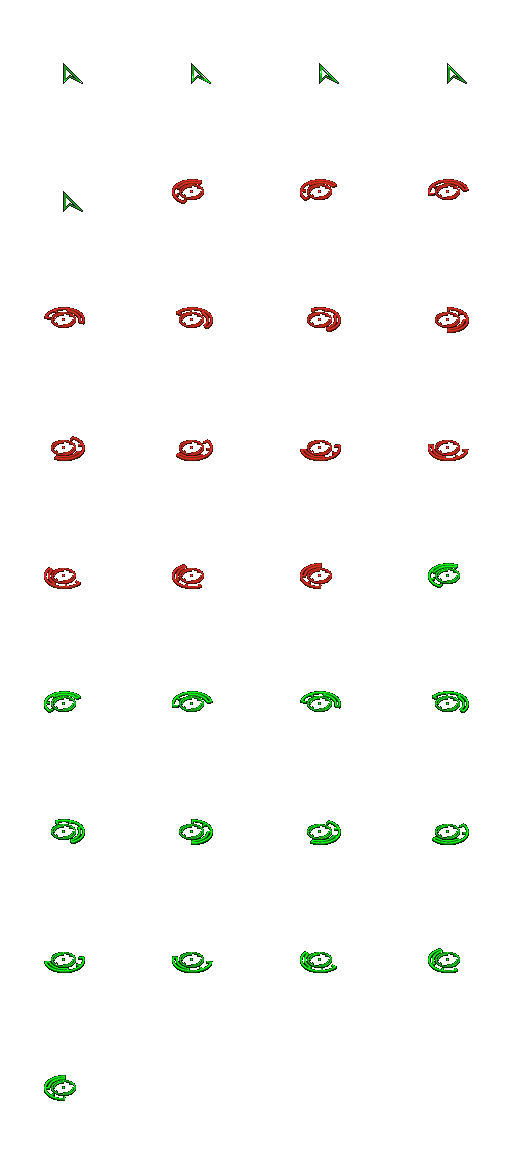
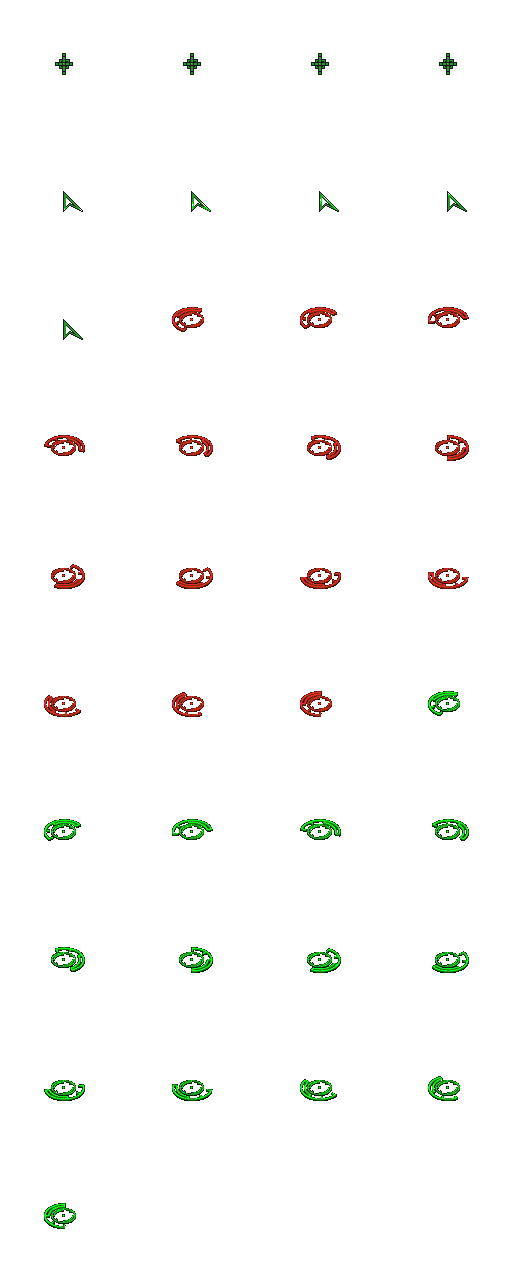
커서 드래그 이미지 넣기
이제 드래그 할때 생기는  초록색 박스 만들기해야함

diff --git a/Source/MainScene.cpp b/Source/MainScene.cpp
@@ -163,6 +163,12 @@ void MainScene::onMouseDown(Event* event)
     }
     else if (e->getMouseButton() == EventMouse::MouseButton::BUTTON_LEFT)
     {
+        if (mCursor->mCursorComp->mState == CursorState::Idle)
+        {
+            mCursor->mCursorComp->mState = CursorState::Drag;
+        }
+
+
        // mCursor->LeftClickDown();
        // mCursor->isDraging = true;
        // mCursor->sPos      = mousePos;
@@ -174,15 +180,20 @@ void MainScene::onMouseDown(Event* event)
 void MainScene::onMouseUp(Event* event)
 {
     EventMouse* e = static_cast<EventMouse*>(event);
+    ax::Vec2 mousePos = ax::Vec2(e->getCursorX(), e->getCursorY());
 
-    /*mCursor->ePos = ax::Vec2(e->getCursorX(), e->getCursorY());
+    //mCursor->ePos = ax::Vec2(e->getCursorX(), e->getCursorY());
 
     if (e->getMouseButton() == EventMouse::MouseButton::BUTTON_LEFT)
     {
-        mCursor->LeftClickUp();
-        mCursor->CursorUp();
+        if (mCursor->mCursorComp->mState == CursorState::Drag)
+        {
+            mCursor->mCursorComp->mState = CursorState::Idle;
+        }
+        //mCursor->LeftClickUp();
+        //mCursor->CursorUp();
        
-    }*/
+    }
 
 }
 //마우스를 놓을 때 노드의 크기를 시작지점과 끝지점 기준으로 넓히고 해당 크기만큼 돌면서 컨택한 노드가 있는지 확인하는 코드 추가

diff --git a/Source/DrawComp.cpp b/Source/DrawComp.cpp
@@ -34,6 +34,7 @@ void DrawComp::update(float delta)
         }
     }
 
+    // 커서에 한해서 변경하는 것
     if (mActor->mCursorComp)
     {
         if (mActor->mCursorComp->mState == CursorState::Idle && mCurAction != ECharAct::Idle)
@@ -52,6 +53,11 @@ void DrawComp::update(float delta)
         {
             ChangeAnim(ECharName::Cursor, ECharAct::OnCursorEnemy, ECharDir::Face);
             mCurAction = ECharAct::OnCursorEnemy;
+        }
+        if (mActor->mCursorComp->mState == CursorState::Drag && mCurAction != ECharAct::Drag)
+        {
+            ChangeAnim(ECharName::Cursor, ECharAct::Drag, ECharDir::Face);
+            mCurAction = ECharAct::Drag;
         }
         
     }
@@ -98,10 +104,9 @@ ax::Node* DrawComp::CreatePhysicsNode(ax::Vec2 bodysize)
         bodyNode->setTag(10);
 
 
-        auto drawNode = ax::DrawNode::create();
-        drawNode->drawRect(ax::Vec2(-bodysize.x / 2, -bodysize.y / 2), ax::Vec2(bodysize.x / 2, bodysize.y / 2),
-                           ax::Color4F::RED);
-        bodyNode->addChild(drawNode);
+        /*auto drawNode = ax::DrawNode::create();
+        drawNode->drawCircle(ax::Vec2(0, 0), 10, 0.f, 1, true, ax::Color4B::GREEN);
+        bodyNode->addChild(drawNode);*/
 
         //루트노드에 피직스노드붙여주기
         mRoot->addChild(bodyNode);

diff --git a/Source/AnimData.cpp b/Source/AnimData.cpp
@@ -128,7 +128,8 @@ AnimInfo g_AnimInfo_CommandCenter_Build[] = {
 AnimInfo g_AnimInfo_Cursor[] = {
     {ECharName::Cursor, ECharAct::Idle, ECharDir::Face, "Plist/Cursor.plist", "Cursor/Idle/%04d.png", 1, 5, ((1.f) / 5), Vec2(0.5f,0.5f),nullptr},
     {ECharName::Cursor, ECharAct::OnCursorTeam, ECharDir::Face, "Plist/Cursor.plist", "Cursor/OnCursorTeam/%04d.png", 1, 14, ((2.f) / 14), Vec2(0.5f, 0.5f), nullptr},
-    {ECharName::Cursor, ECharAct::OnCursorEnemy, ECharDir::Face, "Plist/Cursor.plist", "Cursor/OnCursorEnemy/%04d.png", 1, 14, ((2.f) / 14), Vec2(0.5f, 0.5f), nullptr}
+    {ECharName::Cursor, ECharAct::OnCursorEnemy, ECharDir::Face, "Plist/Cursor.plist", "Cursor/OnCursorEnemy/%04d.png", 1, 14, ((2.f) / 14), Vec2(0.5f, 0.5f), nullptr},
+    {ECharName::Cursor, ECharAct::Drag, ECharDir::Face, "Plist/Cursor.plist", "Cursor/Drag/%04d.png", 1, 4, ((1.f) / 4), Vec2(0.5f, 0.5f), nullptr},
 };
 
 
@@ -235,6 +236,8 @@ AnimInfo& FindAnimInfo(ECharName Name, ECharAct action, ECharDir dir)
             return g_AnimInfo_Cursor[1];
         case ECharAct::OnCursorEnemy:
             return g_AnimInfo_Cursor[2];
+        case ECharAct::Drag:
+            return g_AnimInfo_Cursor[3];
         default:
             break;
         }

diff --git a/Source/CursorComp.h b/Source/CursorComp.h
@@ -68,5 +68,5 @@ public:
     bool OnContactTeam = false;
     bool OnContactEnemy = false;
 
-    CursorState mState = CursorState::None;
+    CursorState mState = CursorState::Idle;
 };

diff --git a/Source/AnimInfo.h b/Source/AnimInfo.h
@@ -83,6 +83,7 @@ enum class ECharAct
     //Cursor Action
     OnCursorTeam,
     OnCursorEnemy,
+    Drag,
     //////////
     Act_Count,
 };
